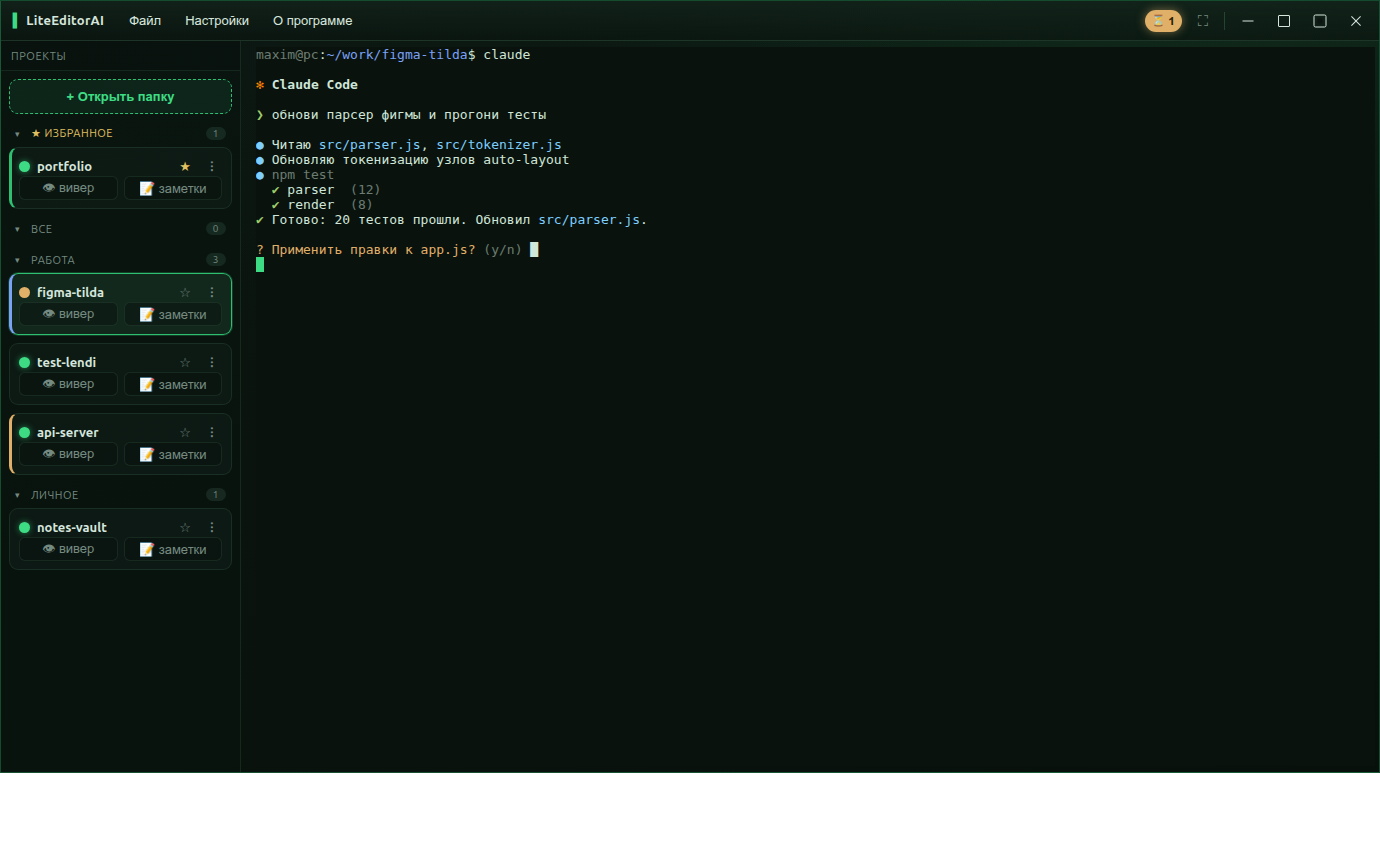
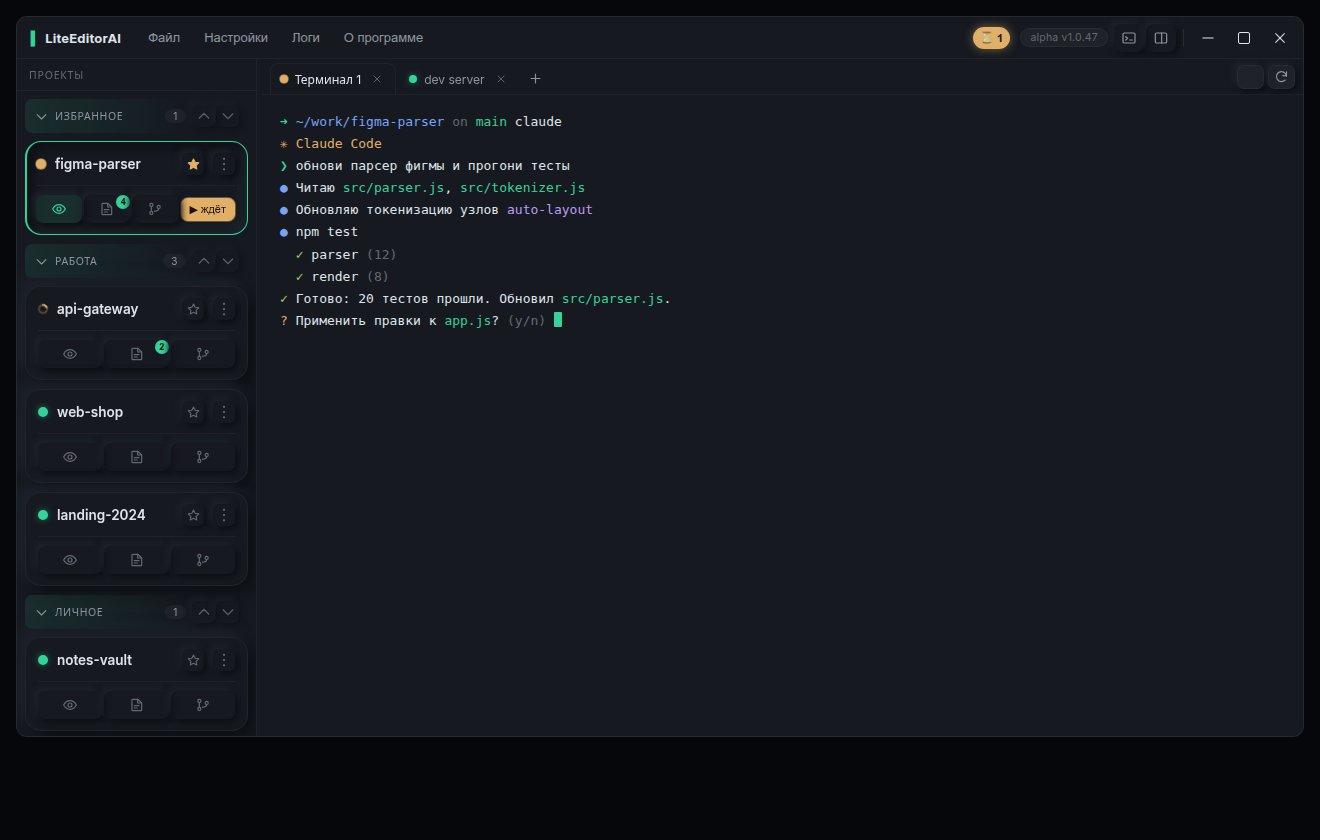
docs: публичный README под v1.0.47 (мульти-терминал, 6 тем, кросс-платформенный copy/paste) + новые скриншоты в актуальном дизайне (фейковые проекты)

diff --git a/README.md b/README.md
@@ -2,7 +2,7 @@
 
 # ▍ LiteEditorAI
 
-**Лёгкий редактор для работы с ИИ-агентами прямо в терминале.**
+**Редактор для эпохи, когда код пишет агент, а ты направляешь.**
 
 [![License: Apache 2.0](https://img.shields.io/badge/license-Apache--2.0-green.svg)](LICENSE)
 [![Release](https://img.shields.io/github/v/release/DanielLetto2020/LiteEditorAI?include_prereleases&sort=semver)](https://github.com/DanielLetto2020/LiteEditorAI/releases)
@@ -14,52 +14,53 @@
 
 ![LiteEditorAI](assets/screenshots/main.png)
 
-## Проблема
+## Зачем
 
-Редакторы кода годами росли вширь: они затачивались под то, чтобы человек **писал проект руками** —
-отсюда сотни панелей, плагинов и настроек, тяжёлый запуск и перегруженный интерфейс.
+Когда код всё чаще пишет агент (Claude Code, Codex, Qwen, Kimi…), а не ты сам, привычный редактор
+встаёт с ног на голову: в центре уже не файл, а **разговор с агентом в терминале**. Тяжёлый IDE с
+сотней панелей под это избыточен, а голый терминал неудобен — не видно, какой агент уже закончил, какой
+ждёт твоего ответа, что он наменял в файлах и где вообще какой проект.
 
-Но формат работы изменился. Всё чаще код пишут **ИИ-агенты прямо в терминале** (Claude Code, Codex,
-Qwen, Kimi…), а ты ведёшь **сразу несколько проектов параллельно**. Для этого тяжёлый IDE избыточен,
-а голый терминал неудобен: не видно, какой агент уже закончил, какой ждёт твоего ответа, что он наменял
-в файлах и где вообще какой проект.
-
-**LiteEditorAI** — лёгкая альтернатива под этот новый формат. Главное — терминал на каждый проект,
-а от редактора ровно столько, сколько нужно, чтобы следить за агентом. И ничего лишнего.
+**LiteEditorAI** построен вокруг этого: главный здесь твой терминал, а просмотр кода, дерево и git живут
+рядом ровно настолько, насколько нужно следить за агентом, — и прячутся одной кнопкой, когда не нужны.
+Это нарочно лёгкий и тихий инструмент: открыл папку — и сразу за дело, без долгой настройки.
 
 ## Что умеет
 
-- 🖥 **Терминал на каждый проект.** Переключаешься между агентами как между вкладками; у каждого свой живой shell.
-- 🧰 **Системный терминал** одной кнопкой — отдельный shell справа в домашней папке, вне проектов: быстро прогнать разовую команду в системе, не трогая терминалы агентов.
-- 🚦 **Видно состояние агента:** работает (спиннер) · ждёт твоего ответа (янтарный) · готов (зелёный).
-  Плюс системные уведомления и счётчик «сколько агентов ждут» — не нужно щёлкать каждый, чтобы понять, кто освободился.
-- 👁 **Просмотр и правка кода рядом:** дерево файлов, подсветка, сохранение, поиск, дифф изменений,
-  превью Markdown / картинок / HTML (HTML — на весь экран для быстрой проверки вёрстки). Дерево само обновляется, пока агент правит файлы.
-- 📝 **Заметки-промпты на проект:** копишь следующие промпты карточками, сортируешь их и отправляешь в терминал в один клик.
-- ⎇ **Git под рукой:** статус в дереве, ветки, commit / push / pull / fetch, откат файла — без выхода из окна.
-- 🗂 **Порядок в проектах:** категории (создать, переименовать, менять порядок, свернуть; плюс спец-«Архив» для отложенных), избранное, акцент-цвета, авто-скан папки с проектами.
-- ⌨ **Быстро:** палитра команд `Ctrl+K`, переключение проектов `Ctrl+1..9`, drag-and-drop папки, темы.
-- 🪶 **Без перегруза:** ничего не настраивать на старте, маленькая панель настроек, тёмный минималистичный UI.
+- 🖥 **Несколько терминалов на проект — вкладки.** У каждого проекта свои живые shell-вкладки: запусти
+  агента в одной, dev-сервер в другой, разовую команду в третьей. Вкладки переименовываются, а их **имена
+  сохраняются между перезапусками**.
+- 🚦 **Видно состояние агента с одного взгляда:** работает (спиннер) · ждёт твоего ответа (янтарный) ·
+  готов (зелёный). Плюс системные уведомления и счётчик «сколько агентов ждут» — не нужно щёлкать каждый,
+  чтобы понять, кто освободился. Индикатор на карточке — агрегат по всем вкладкам проекта.
+- 📝 **Заметки-промпты и авто-очередь:** копишь следующие промпты карточками, а очередь отправляет их в
+  терминал по одному — после каждого хода агента ты решаешь, слать ли следующий.
+- 👁 **Код рядом с терминалом:** дерево файлов, подсветка, правка и сохранение, поиск, дифф изменений vs
+  HEAD, превью Markdown / картинок / HTML. Дерево само обновляется, пока агент правит файлы.
+- ⎇ **Git под рукой:** статус прямо в дереве, ветки, commit / push / pull / fetch, откат файла — не выходя
+  из окна.
+- 🗂 **Порядок в проектах:** категории (создать, переименовать, менять порядок, свернуть; плюс «Архив» для
+  отложенных), избранное, акцент-цвета, авто-скан папки с проектами.
+- 🎨 **6 тем оформления:** Неоморфизм (по умолчанию), Стекло, Material, Catppuccin, Gruvbox, Aurora —
+  тёмные, аккуратные, с единым акцентом. Терминал перекрашивается под тему.
+- 🪶 **Без перегруза и кросс-платформенно:** ничего не настраивать на старте, маленькая панель настроек,
+  Ctrl+C/Ctrl+V в терминале работают в любой раскладке на Linux и Windows.
 
 ## Скриншоты
 
-**Вивер: код, дерево и git рядом с терминалом**
+**Рабочее пространство: код, дерево и git рядом с терминалом**
 
-![Вивер](assets/screenshots/viewer.png)
+![Рабочее пространство](assets/screenshots/workspace.png)
 
-**Превью Markdown, HTML-страниц и картинок**
+**6 тем оформления**
 
-![Превью](assets/screenshots/preview.png)
-
-**Заметки-промпты на проект**
-
-![Заметки](assets/screenshots/notes.png)
+![Темы](assets/screenshots/themes.png)
 
 ## Установка
 
 Готовые сборки — на странице [**Releases**](https://github.com/DanielLetto2020/LiteEditorAI/releases).
 
-### Ubuntu (x64)
+### Ubuntu / Debian (x64)
 ```bash
 sudo apt install ./LiteEditorAI_*.deb
 ```
@@ -83,18 +84,20 @@ npm start          # сборка фронта + запуск
 
 | Клавиши | Действие |
 |---|---|
+| `Ctrl+Shift+T` / `Ctrl+Shift+W` | новая / закрыть вкладку терминала |
+| `Ctrl+PageUp` / `Ctrl+PageDown` | переключение вкладок терминала |
+| `Ctrl+C` / `Ctrl+V` | копировать выделение / вставить (в любой раскладке) |
 | `Ctrl+\` | режим «один терминал» |
 | `Ctrl+K` | палитра команд |
 | `Ctrl+F` | поиск (в терминале или в открытом файле) |
 | `Ctrl+S` | сохранить файл |
 | `Ctrl+1..9` / `Ctrl+Tab` | переключение проектов |
-| `Ctrl + +/−` | размер шрифта |
-| `F11` | полный экран |
+| `Ctrl + +/−` | размер шрифта · `F11` — полный экран |
 
 ## Статус
 
-**Alpha** — активно дорабатывается. Один терминал на проект; терминалы не переживают перезапуск.
-Баги и идеи — в [Issues](https://github.com/DanielLetto2020/LiteEditorAI/issues).
+**Alpha** — активно дорабатывается. Несколько терминалов-вкладок на проект (имена переживают перезапуск,
+сами процессы — нет). Баги и идеи — в [Issues](https://github.com/DanielLetto2020/LiteEditorAI/issues).
 
 ## Лицензия
 
